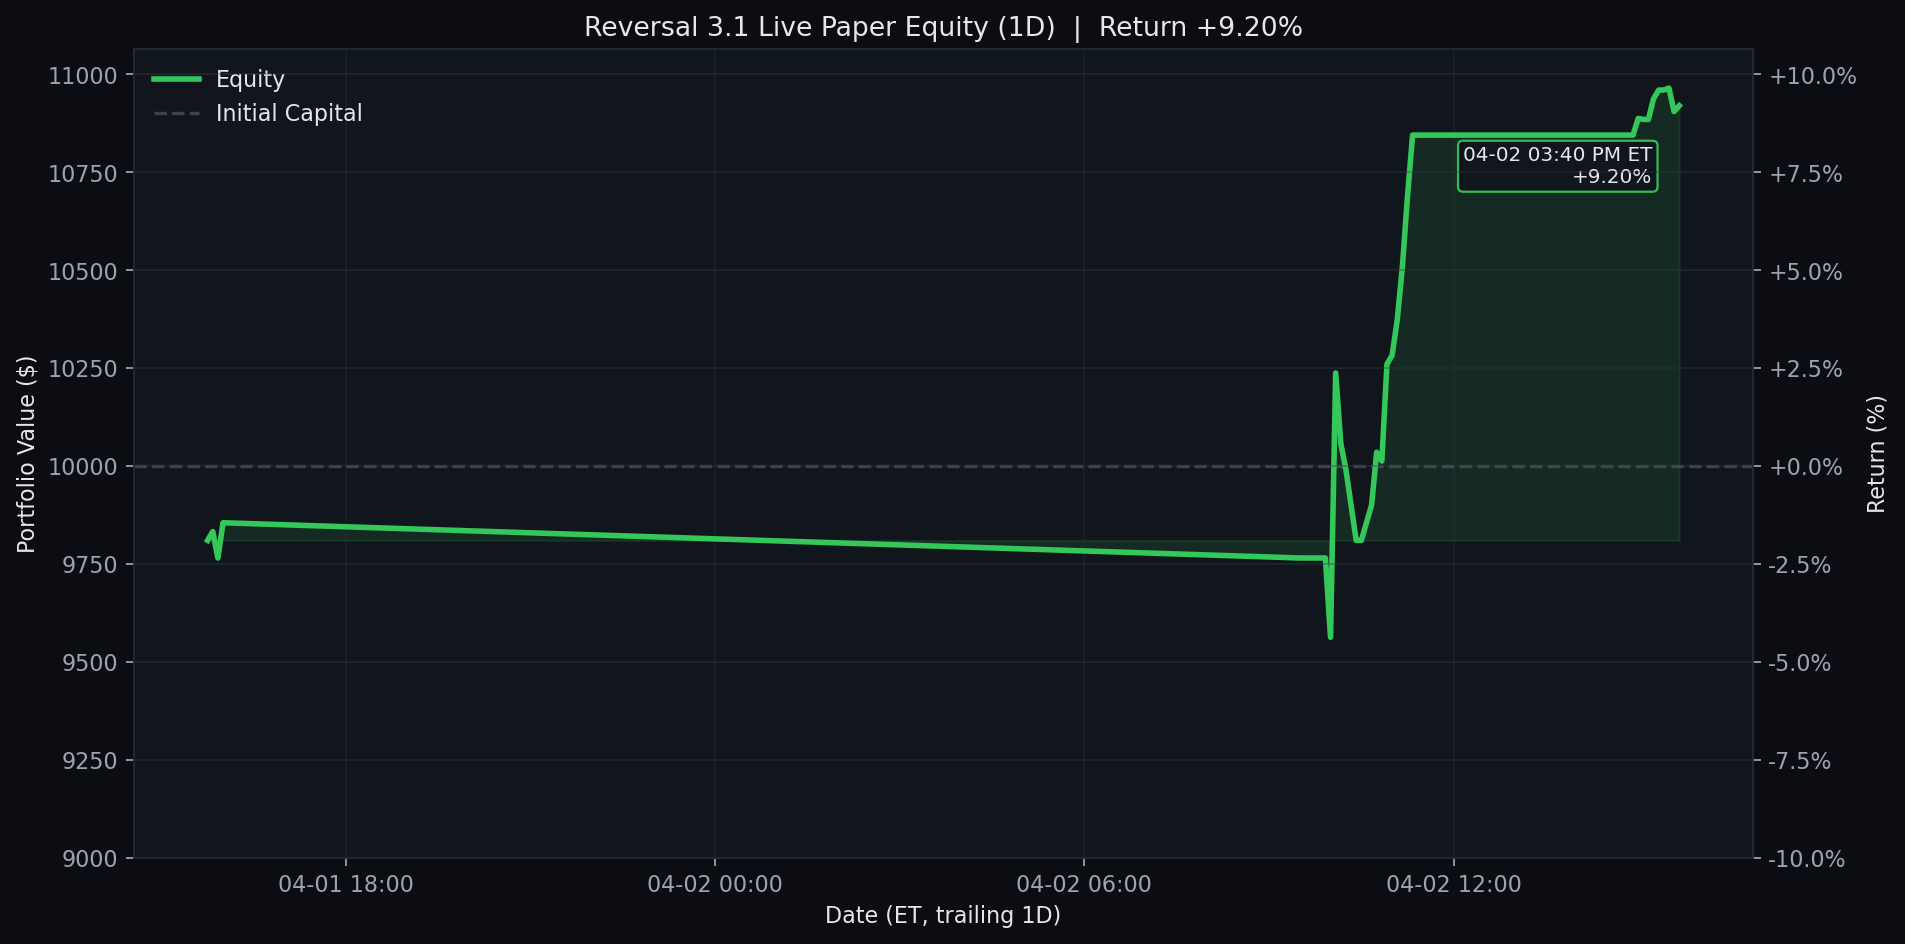
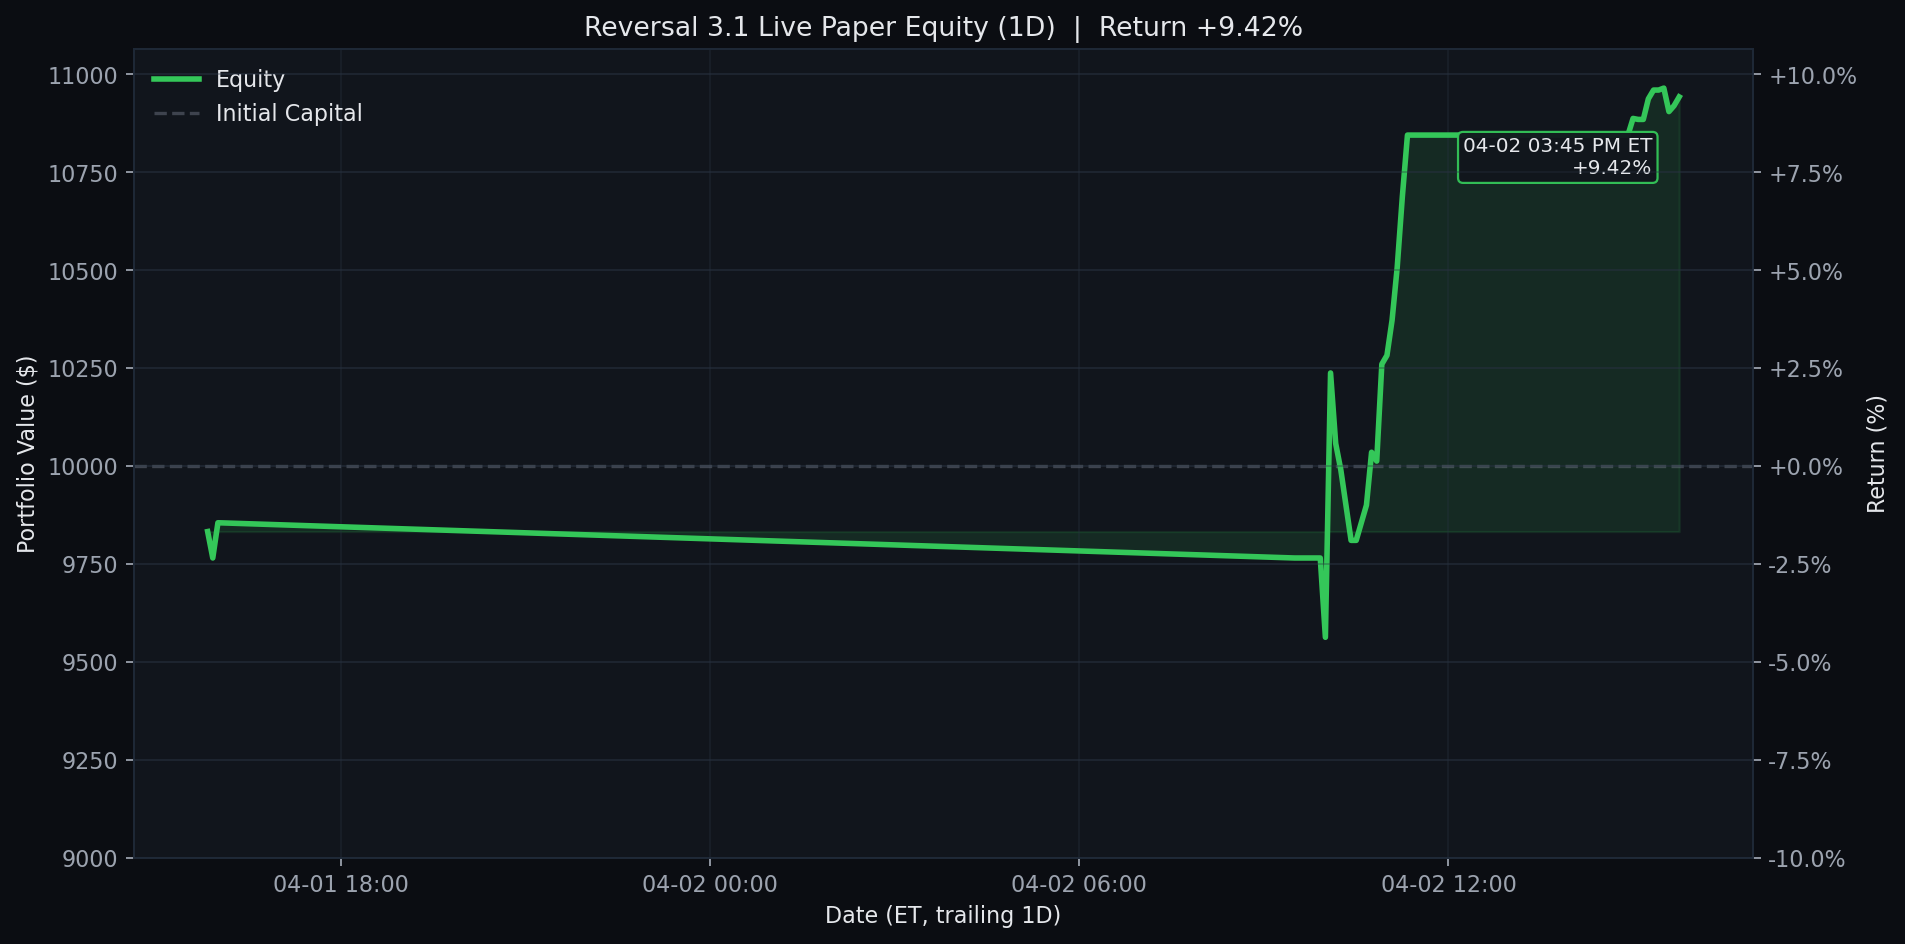
Update Reversal 3.1 live paper test 2026-04-02 15:45 ET

diff --git a/results/reversal_3_1_live/README.md b/results/reversal_3_1_live/README.md
@@ -1,7 +1,7 @@
 # Reversal 3.1 Live Paper Test
 
-Last updated (ET): `2026-04-02 15:40:05 EDT`
-Last processed slot: `manage_1530`
+Last updated (ET): `2026-04-02 15:45:05 EDT`
+Last processed slot: `manual_refresh`
 
 ## Active Configuration
 
@@ -20,16 +20,16 @@ Last processed slot: `manage_1530`
 ## Portfolio Snapshot
 
 - Cash: `$8,102.50`
-- Equity: `$10,920.00`
+- Equity: `$10,942.50`
 - Realized PnL: `$845.00`
-- Unrealized PnL: `$75.00`
+- Unrealized PnL: `$97.50`
 - Open positions: `1`
 
 ## Open Positions
 
 ```text
 ticker    contract_symbol entry_trade_date  business_days_held  entry_option_price  current_option_price  entry_spot  current_spot  unrealized_pnl  unrealized_return_pct  success_rate  matched_signals  current_drop_pct  entry_iv_pct  current_iv_pct  rolling_sigma_20d_pct
-   WDC WDC260501C00295000       2026-04-02                   0               27.42                 28.17      294.77        293.38            75.0                   2.73         97.22               36              0.99         81.84           86.35                  91.06
+   WDC WDC260501C00295000       2026-04-02                   0               27.42                  28.4      294.77        292.59            97.5                   3.56         97.22               36              0.99         81.84            88.1                  91.06
 ```
 
 ## Today's Closed Trades (2026-04-02)
@@ -43,18 +43,18 @@ ticker     contract_symbol entry_trade_date_et exit_trade_date_et  entry_option_
 
 ```text
 ticker  success_rate_%  matched_signals  current_drop_%  target_rebound_$  target_price  rolling_sigma_20d_%  call_candidate
-   WDC           97.22               36            1.46              3.04        296.43                91.06            True
-  DXCM           91.30               46            0.51              0.22         62.27                31.67            True
-  ASML           90.00               10            3.54             33.65       1345.34                52.01            True
-   MAR           89.74               39            0.51              1.19        332.95                28.45            True
-  FAST           88.46               26            0.97              0.31         46.50                21.97            True
-  ORLY           87.50               32            0.81              0.53         91.87                22.81            True
-  GILD           87.50               24            0.83              0.82        139.95                21.47            True
-  KLAC           85.71               35            0.90              9.54       1515.75                56.48            True
-   TXN           84.38               32            0.69              0.95        195.89                33.08            True
-  ODFL           84.21               38            0.64              0.89        199.25                46.64            True
-  MNST           84.21               38            0.51              0.26         72.66                21.32            True
-  AMAT           83.87               31            1.45              3.59        352.26                59.65            True
+   WDC           97.14               35            1.73              3.60        296.19                91.06            True
+  UPRO           92.50               40            0.51              0.35         99.02                57.18            True
+  ASML           90.00               10            3.43             32.68       1345.75                52.01            True
+  SNPS           89.13               46            0.54              1.50        396.10                35.88            True
+   MAR           88.89               36            0.64              1.50        332.82                28.45            True
+   CSX           88.89               27            0.57              0.16         41.37                27.84            True
+  ORLY           88.24               34            0.76              0.49         91.89                22.81            True
+  FAST           88.00               25            1.10              0.36         46.48                21.97            True
+  SHOP           86.36               44            0.58              0.48        118.31                47.54            True
+  GILD           86.36               22            1.02              1.00        139.87                21.47            True
+  KLAC           85.71               35            0.88              9.34       1515.84                56.48            True
+   TXN           83.87               31            0.74              1.02        195.86                33.08            True
 ```
 
 ## Recent Events

diff --git a/README.md b/README.md
@@ -3,10 +3,10 @@
 <!-- reversal-3.1-live:start -->
 ## Reversal 3.1 Live Paper Test
 
-- Last updated (ET): `2026-04-02 15:40:05 EDT`
-- Equity: `$10,920.00` | Realized: `$845.00` | Unrealized: `$75.00` | Open positions: `1`
+- Last updated (ET): `2026-04-02 15:45:05 EDT`
+- Equity: `$10,942.50` | Realized: `$845.00` | Unrealized: `$97.50` | Open positions: `1`
 - Today closed trades: `1`
-- Current slot: `manage_1530`
+- Current slot: `manual_refresh`
 - Universe: `qqq_plus_leverage_etfs`
 - Chart windows: `1D / 1W / 1M` (default open panel: `1W`)
 
@@ -14,7 +14,7 @@
 
 ```text
 ticker    contract_symbol  current_option_price  unrealized_pnl  unrealized_return_pct  business_days_held
-   WDC WDC260501C00295000                 28.17            75.0                   2.73                   0
+   WDC WDC260501C00295000                  28.4            97.5                   3.56                   0
 ```
 
 <details>
